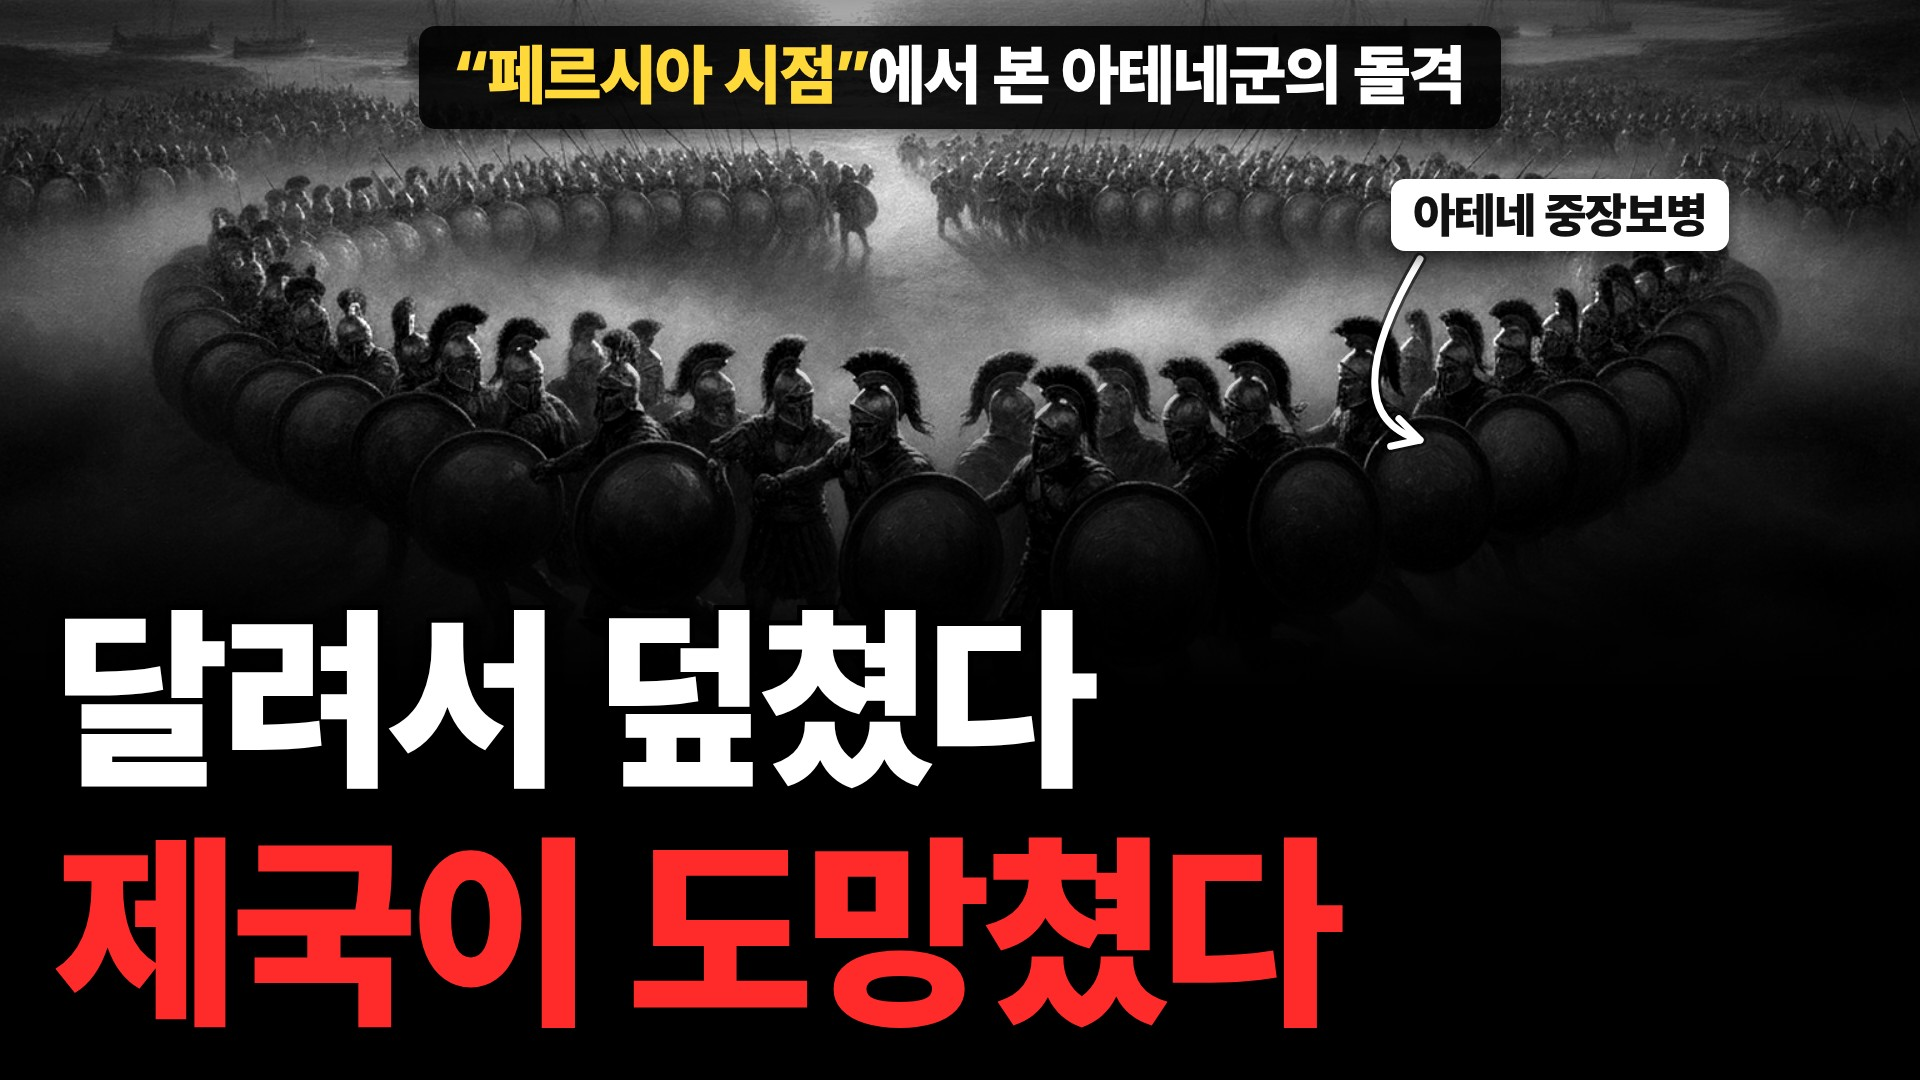
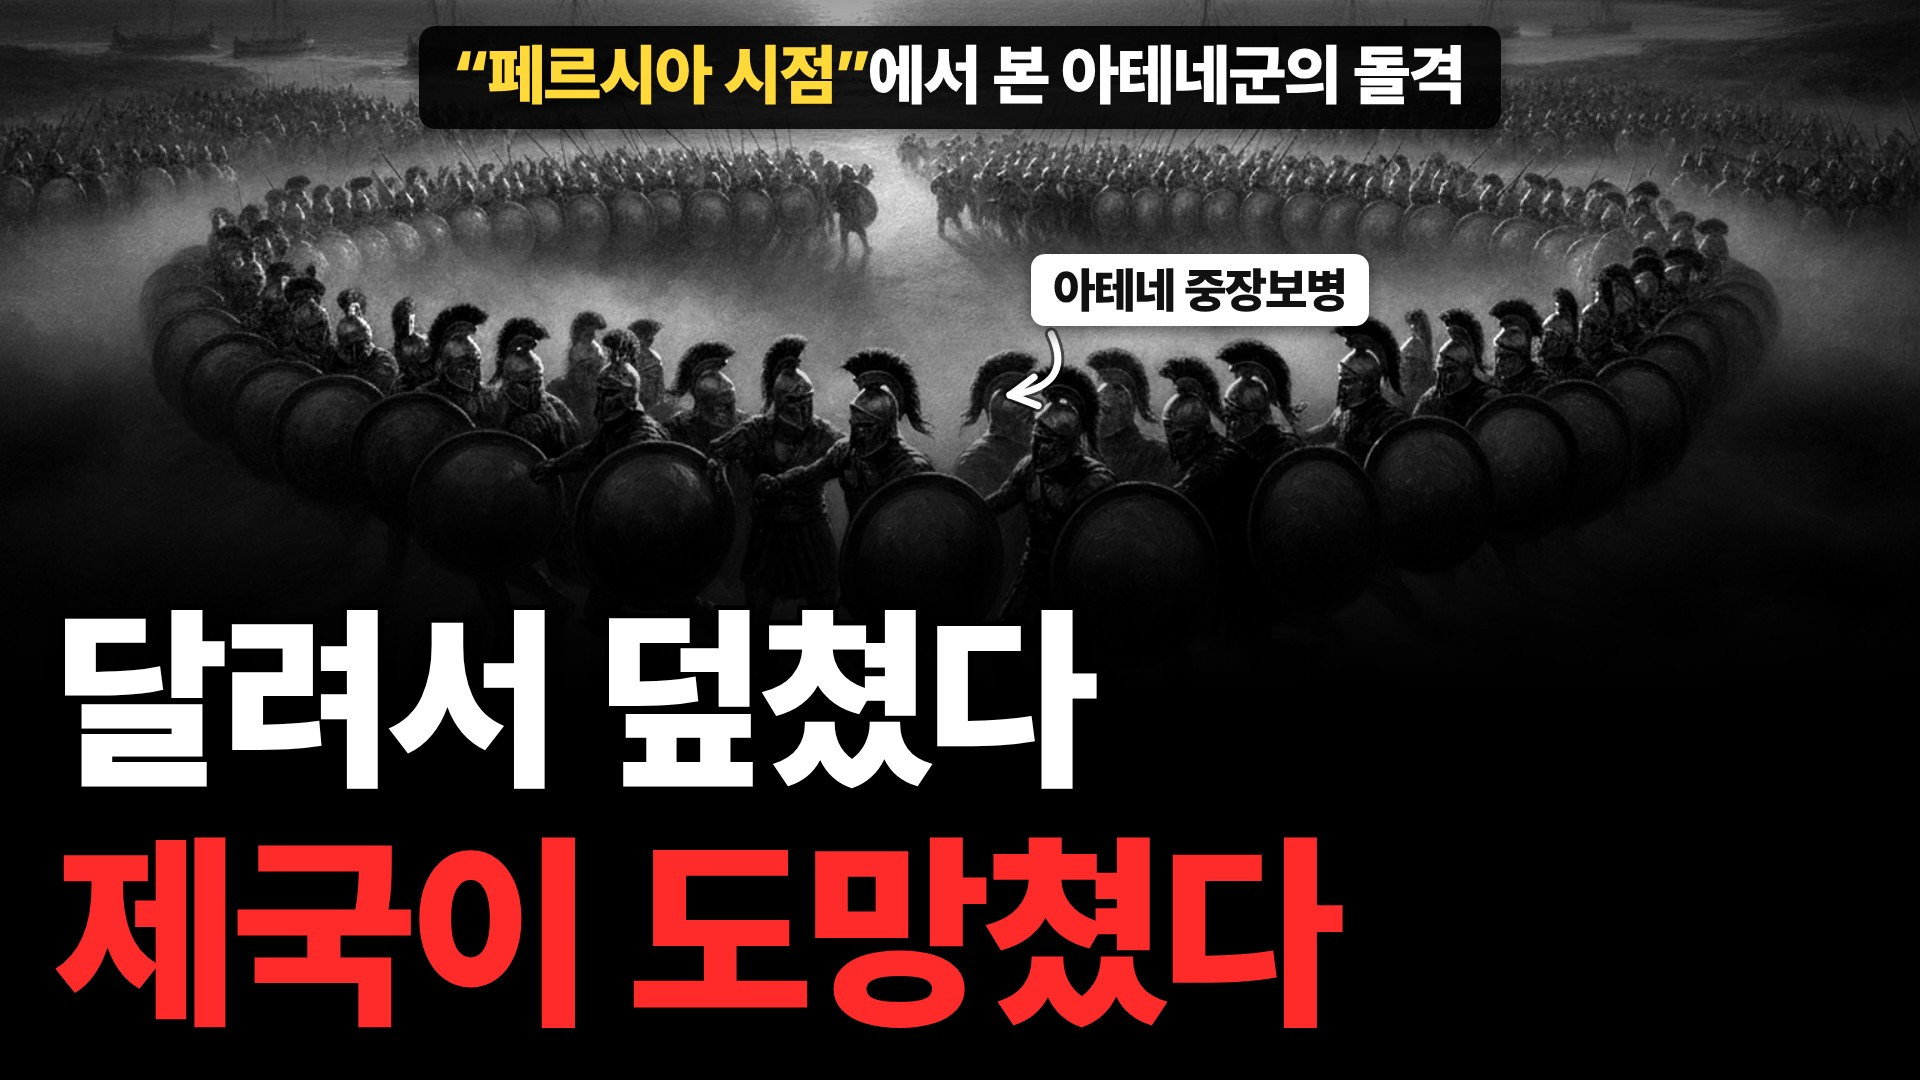
썸네일 v3: 설명 라벨·화살표를 빈 공간으로 옮겨 사람을 가리지 않게
Claude-Session: https://claude.ai/code/session_01SkesRQ2QoHJhKCtKZoqRh3

Changed region(s): [[0.5312, 0.1528, 0.9062, 0.3972], [0.7188, 0.3667, 0.75, 0.4278]]

diff --git a/remotion/Thumbnail.tsx b/remotion/Thumbnail.tsx
@@ -1498,7 +1498,7 @@ export const PAROHO_V2: Record<string, ThumbV2Props> = {
     top: "“페르시아 시점”에서 본 아테네군의 돌격",
     line1: "기병도 궁수도 없던 아테네가",
     line2: "제국을 바다로 쫓아낸 이유",
-    note: { text: "아테네 중장보병", x: 1560, y: 215, to: [1420, 440] },
+    note: { text: "아테네 중장보병", x: 1200, y: 290, to: [1010, 395] },
     alt: { line1: "달려서 덮쳤다", line2: "제국이 도망쳤다" }, // ALTS:ep01-marathon
   },
 };

diff --git a/CLAUDE.md b/CLAUDE.md
@@ -75,7 +75,7 @@
 - 화면 구성 (1920×1080)
   1. **배경 = 그 편 대본의 핵심 장면 사진, 전체 화면 흑백** (`gray` 기본 true). 사료 사진이 있으면 장면 사진을 그대로 지정 `bg: "ep/<ep>/photos/sNNN_photo_0.jpg"`(스카우트 핀으로 받은 사진 — 추가 비용 0), 없으면(고대 등) 재연 그림 `ep/<ep>/ai/thumb_bg.jpg`. 어두우면 `bgFilter`로 밝기 보정
   2. **최상단 가운데 검은 라운드 박스 한 줄 `top`** — “ ” 안은 노랑 `#FFD83A`, 나머지 흰색 (44~66px 자동)
-  3. **사진 설명 흰 라벨 + 휘어진 흰 화살표 `note`** `{text, x, y(라벨 중심), to:[x,y](가리킬 곳)}` — 라벨은 얼굴을 가리지 않게
+  3. **사진 설명 흰 라벨 + 휘어진 흰 화살표 `note`** `{text, x, y(라벨 중심), to:[x,y](가리킬 곳)}` — **라벨과 화살표는 사람(얼굴·몸) 위를 지나가지 않게**: 라벨은 하늘·안개·빈 땅 같은 빈 공간에 두고, 화살표는 짧게(200~350px) 빈 공간을 지나 대상의 가장자리를 가리킨다 (2026-11-18 사용자 수정)
   4. **하단 솔리드 블랙 바닥판**(사진이 위로 260px 페이드) 위 2줄 — Line 1 흰색(얇은 검정 외곽선) / Line 2 빨강 `#FF2B2B`
   5. **글자 크기**: 실측 글꼴 폭으로 좌우 56px 여백 안(1808px)을 꽉 채움. Line 2 상한 210px, Line 1 상한 200px·Line 2의 94% 이하, 최소 110px. **줄당 9~13자(띄어쓰기 포함)** 가 레퍼런스처럼 두 줄이 가로를 꽉 채우는 길이 — 짧으면 글자가 과하게 커지고 길면 작아짐
   6. **재생시간 배지 여백 없음, 시간 표시도 넣지 않음** (2026-11-18 사용자 지시)
